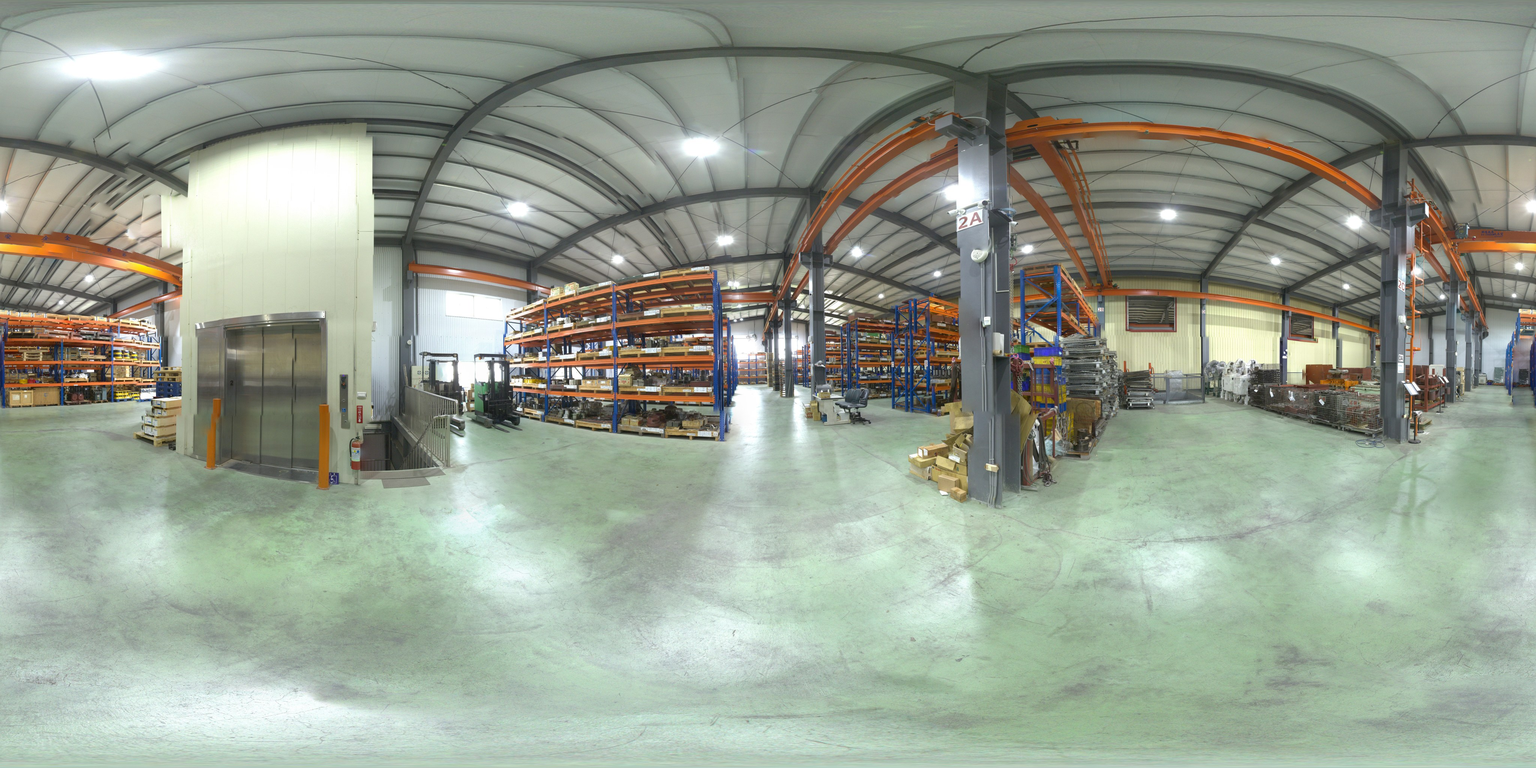
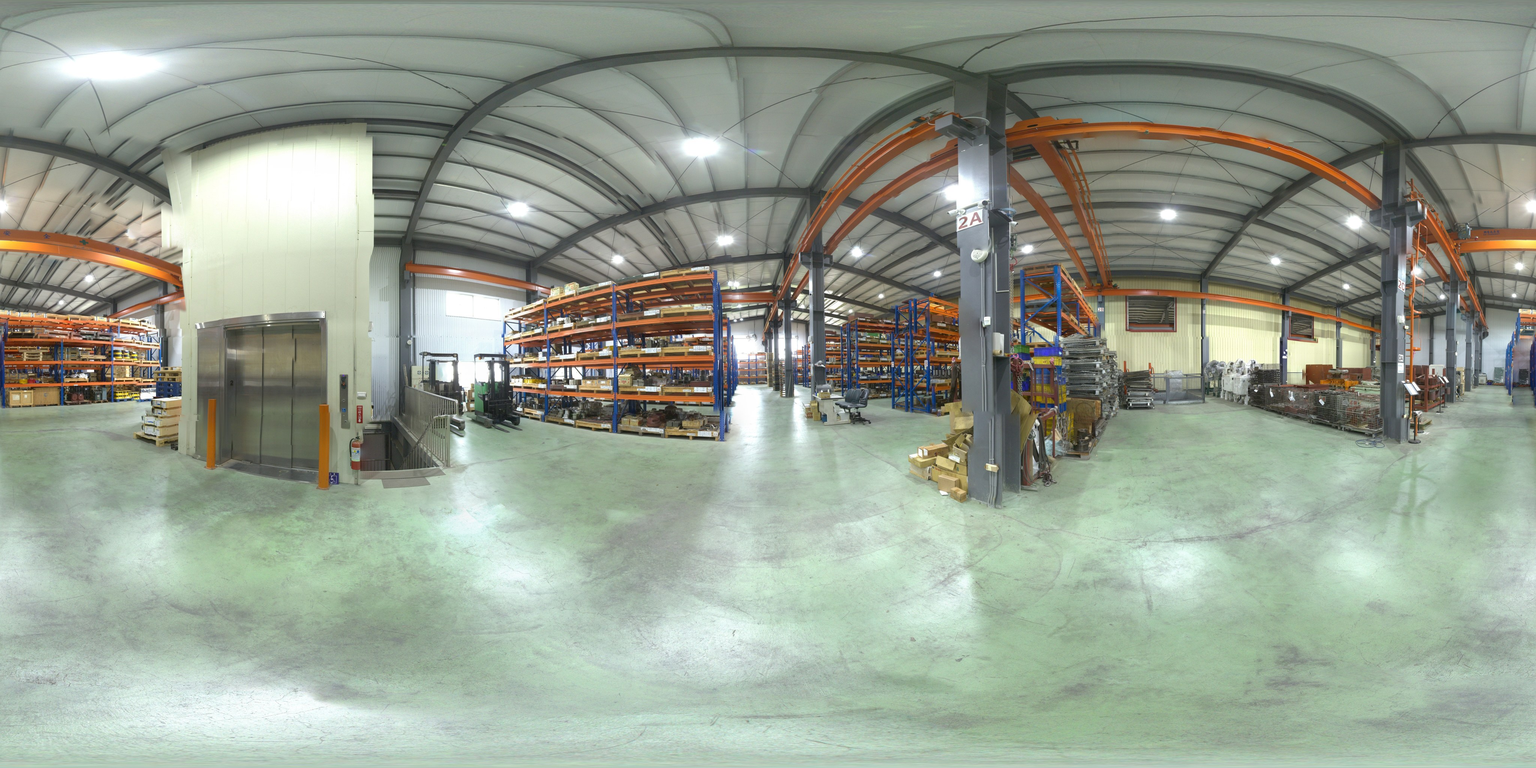
修二樓置物區：還原已修柱列底圖，只保留 varD 中央較乾淨區塊，並用原圖補上天車「安全第一」重影（v219）。

diff --git a/index.html b/index.html
@@ -12,7 +12,7 @@
   <link rel="stylesheet" href="https://cdn.jsdelivr.net/npm/@photo-sphere-viewer/core@5.14.1/index.css">
   <link rel="stylesheet" href="https://cdn.jsdelivr.net/npm/@photo-sphere-viewer/markers-plugin@5.14.1/index.css">
   <link rel="preload" as="image" href="./media/panoramas-lite/station-1f-corridor.jpg?v=216">
-  <link rel="stylesheet" href="./css/tour.css?v=218">
+  <link rel="stylesheet" href="./css/tour.css?v=219">
   <script type="importmap">
   {
     "imports": {
@@ -181,6 +181,6 @@
     </div>
   </div>
 
-  <script type="module" src="./js/tour.js?v=218"></script>
+  <script type="module" src="./js/tour.js?v=219"></script>
 </body>
 </html>

diff --git a/js/tour.js b/js/tour.js
@@ -15,7 +15,7 @@ try {
   guideApi = null;
 }
 
-const MEDIA_VERSION = '218';
+const MEDIA_VERSION = '219';
 const STATIONS_URL = `./media/stations.json?v=${MEDIA_VERSION}`;
 const LITE_PANO_WIDTH = 4096;
 const LITE_PANO_HEIGHT = 2048;
